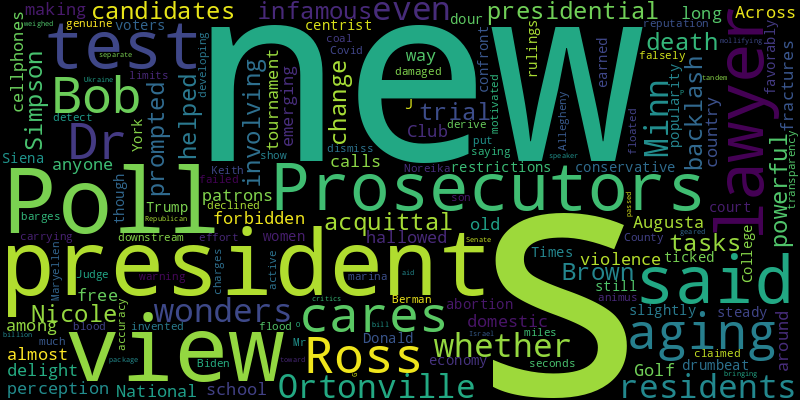
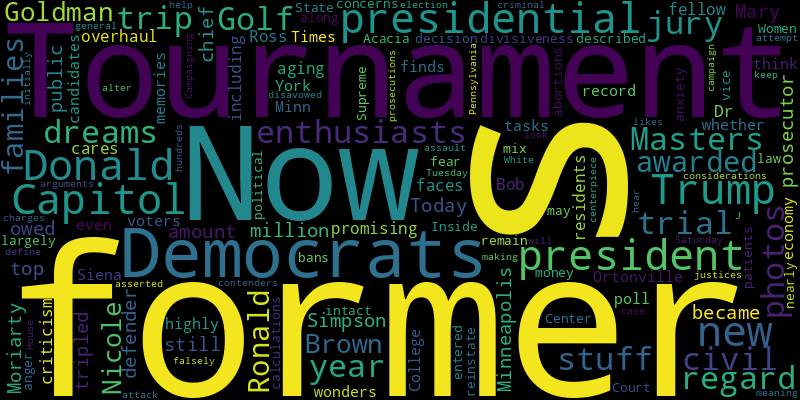
chore(bot): 🙈 auto commit

diff --git a/README.md b/README.md
@@ -2,32 +2,34 @@
 Auto RSS New York Times and Generate Word Cloud
 
 ## New York Times Global News
-* The attacker was shot and killed by a lone police officer who was directed into the mall by people fleeing the scene at Bondi Junction, a major commercial area in eastern Sydney.
+* As Israeli leaders weighed a response to the aerial assault by Iran and its allies, Tehran said it would not strike further unless attacked. Nearly all the Iranian missiles and drones were intercepted, including by U.S. forces.
+* The police have yet to determine a motive for Saturday’s attack, which left six people dead, but said the assailant had mental-health problems.
+* Their capture set off a global campaign to “Bring Back Our Girls.” But many are still missing, and kidnappings in Nigeria have proliferated.
 * With Russia seizing the initiative on the battlefield in recent months, Ukraine’s ability to defend itself hinges on replenishing its arsenal of weaponry and mobilizing troops.
+* The direct military confrontation between Iran and Israel has brought renewed attention to Iran’s armed forces. What are they capable of?
+* The announcement comes days after President Biden met jointly with the leaders of Japan and the Philippines to discuss Chinese aggression in the Indo-Pacific region.
+* Scores of people were stranded, some overnight, after an accident on a rocky hillside above the city of Antalya.
+* As civilian casualties in Gaza spiral, some nations are suspending sales amid accusations of abetting genocide and war crimes.
+* Trainers and equipment from Russia landed in the West African nation this week, putting the continued presence of 1,000 U.S. military personnel there in doubt.
 * In Bogotá, a city with more than 1.1 million bicycles and a strong riding culture, a number of high-profile crimes have rattled cyclists.
-* In anticipation of the Iranian strikes, several countries, including the United States, issued new guidelines to their citizens about travel in Israel and the surrounding region.
-* The possibility of a direct military confrontation between Iran and Israel has brought renewed attention to Iran’s armed forces. What are they capable of?
-* Like the kiwi fruit, the feijoa, or pineapple guava, is not native to the island nation, but it has become something of a national obsession.
-* Bayer Leverkusen can win its first Bundesliga title this weekend. For its rivals, the real joy comes in seeing Bayern Munich lose it.
-* A governing council was finalized after a month of negotiations. It is tasked with restoring law and order by appointing an acting prime minister.
-* Coffee shops and kiosks are everywhere in Ukraine’s capital, their popularity both an act of wartime defiance and a symbol of closer ties to the rest of Europe.
-* China seeks to project military power in the seas around its coastline, yet also faces pressure to mend relations with neighbors for the good of its economy.
 
 ![Global](./global.png)
 ## New York Times United States News
+* Golf enthusiasts regard a trip to the Masters Tournament as the stuff of dreams. Here are photos from this year’s tournament.
+* In 1997, a jury in a civil trial awarded the families of Ronald Goldman and Nicole Brown Simpson $33 million. Today, the amount still owed has more than tripled.
+* Mary Moriarty, a former chief public defender, became the top prosecutor in Minneapolis, promising an overhaul. Now she faces criticism, including from fellow Democrats.
 * Dr. Bob Ross cares for the aging residents of Ortonville, Minn, even as he wonders whether he, and the presidential candidates, are up to all their tasks.
-* His acquittal in the infamous trial involving Nicole Brown Simpson’s death prompted powerful backlash that helped change the perception around domestic violence.
-* Augusta National Golf Club has long forbidden cellphones for almost anyone at its hallowed tournament, but patrons delight in making free calls the old-school way.
-* Across the country, fractures are emerging among conservative and centrist women, as they confront a steady drumbeat of new abortion restrictions and court rulings.
-* The president’s popularity has ticked up slightly, though voters still view Donald J. Trump more favorably and have dour views of the economy.
-* The New York Times/Siena College Poll has earned a reputation for accuracy and transparency. But as with any poll, there are limits to just how much you can derive.
-* The barges, some carrying coal, floated miles downstream and damaged a marina as a flood warning was active in Allegheny County.
-* Prosecutors said Keith Berman falsely claimed he had invented a blood test that could detect Covid-19 in 15 seconds. His lawyer said he had put “genuine effort” into developing such a test.
-* Judge Maryellen Noreika declined to dismiss the charges against the president’s son, saying Mr. Biden’s lawyer failed to show prosecutors had been motivated by animus.
-* The Republican speaker has weighed bringing up a $95 billion Senate-passed bill to aid Ukraine and Israel in tandem with a separate package geared toward mollifying G.O.P. critics.
+* A new poll by The New York Times and Siena College finds that voters think highly of the former president’s record on the economy, but memories of his divisiveness largely remain intact.
+* Inside Acacia Women’s Center, patients described a mix of fear, anger and anxiety after the State Supreme Court’s decision to reinstate a law that bans nearly all abortions.
+* Donald Trump’s concerns about money may have entered his vice-presidential calculations, along with political considerations and which contenders he likes the look of.
+* The justices will hear arguments on Tuesday in a case that could alter hundreds of prosecutions for the assault on the Capitol and help define its meaning.
+* Campaigning in Pennsylvania on Saturday, Donald J. Trump once more falsely asserted that his criminal charges were an attempt by Democrats to keep him from the White House.
+* The former president initially disavowed the attack on the Capitol, but he is now making it a centerpiece of his general election campaign.
 
 ![US](./usnews.png)
 ## New York Times Asia News
+* The Timepiece Museum has about 120 clocks of all shapes and sizes on display, out of a total of about 800, with the oldest dating from the 1400s.
+* The announcement comes days after President Biden met jointly with the leaders of Japan and the Philippines to discuss Chinese aggression in the Indo-Pacific region.
 * As Narendra Modi seeks a third term as prime minister, India’s rupture with China looms over a pillar of his campaign: making his country a major power.
 * Like the kiwi fruit, the feijoa, or pineapple guava, is not native to the island nation, but it has become something of a national obsession.
 * The fall of Myawaddy, on the Thai border, was one of the most significant gains by resistance forces since a 2021 military coup.
@@ -36,7 +38,5 @@ Auto RSS New York Times and Generate Word Cloud
 * American rescuers found the lost sailors on a tiny uninhabited island in Micronesia with a damaged boat and the word spelled out on the beach.
 * Truong My Lan received the death penalty as Vietnam’s Communist Party cracks down on corruption in the fast-growing Southeast Asian economic hub.
 * President Yoon Suk Yeol, a key U.S. ally, faces the prospect of becoming a lame duck unless he starts negotiating with the opposition.
-* President Biden discussed security in the South China Sea with the leaders of Japan and the Philippines at the White House.
-* Born in Hawaii, he moved to Japan in 1988 and won 11 grand championships. His success drove a resurgence in the sport’s popularity.
 
 ![Asian](./asian.png)
